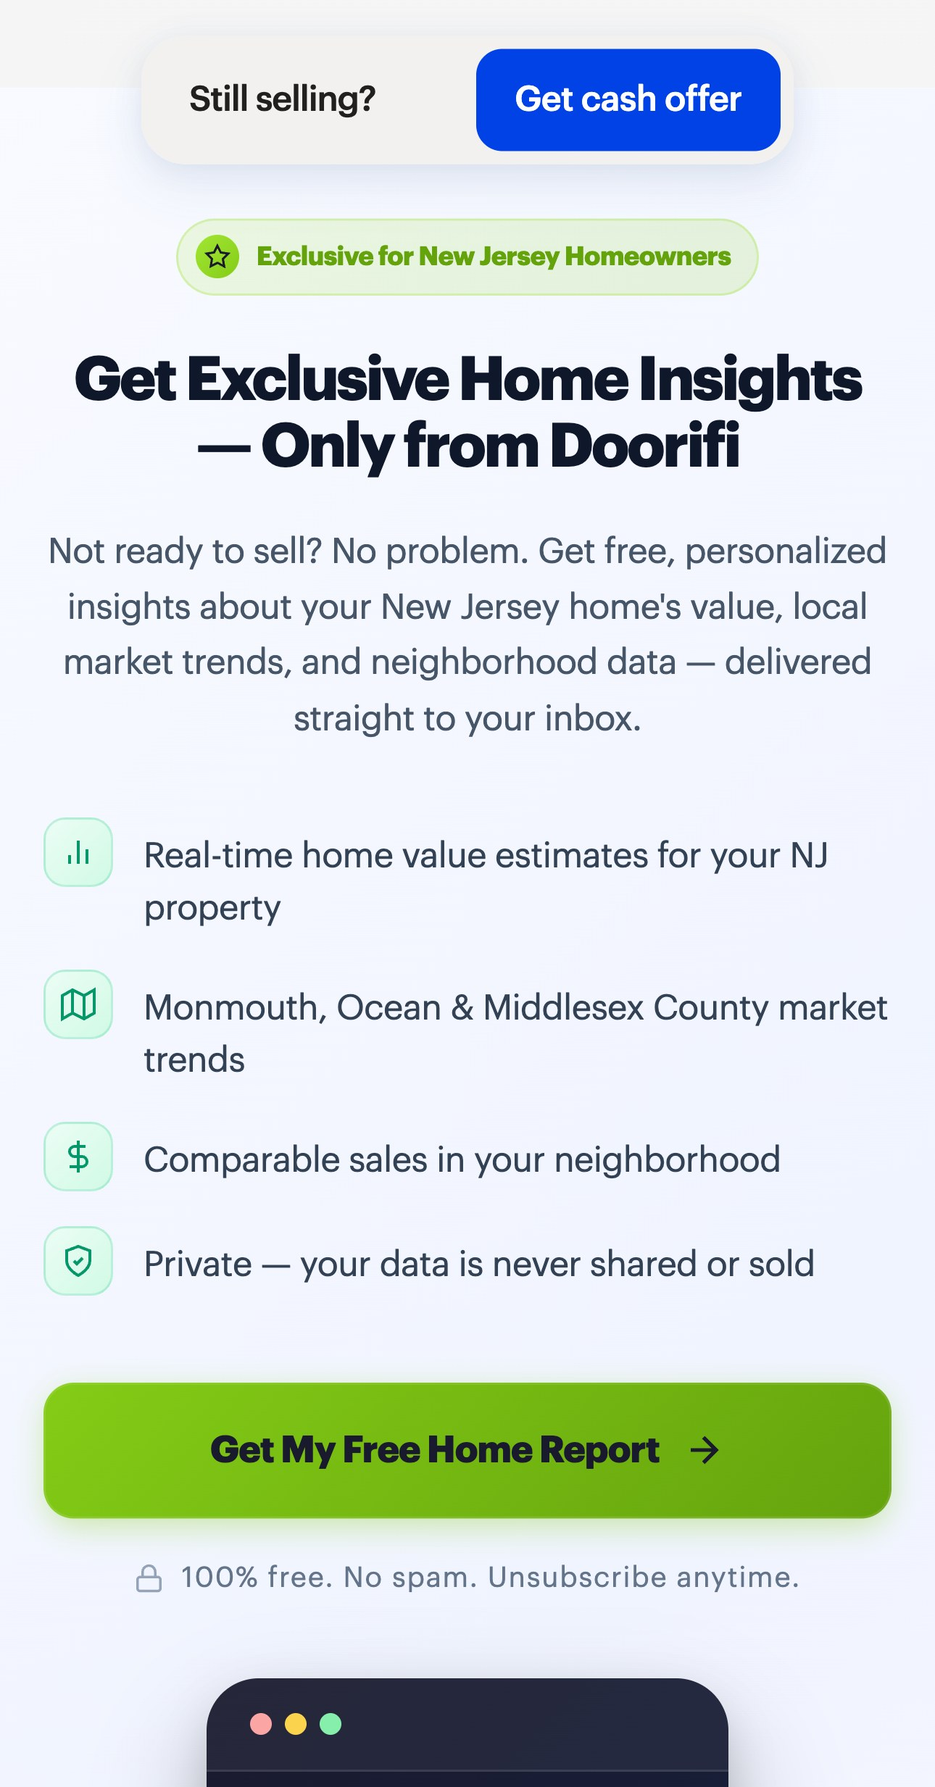
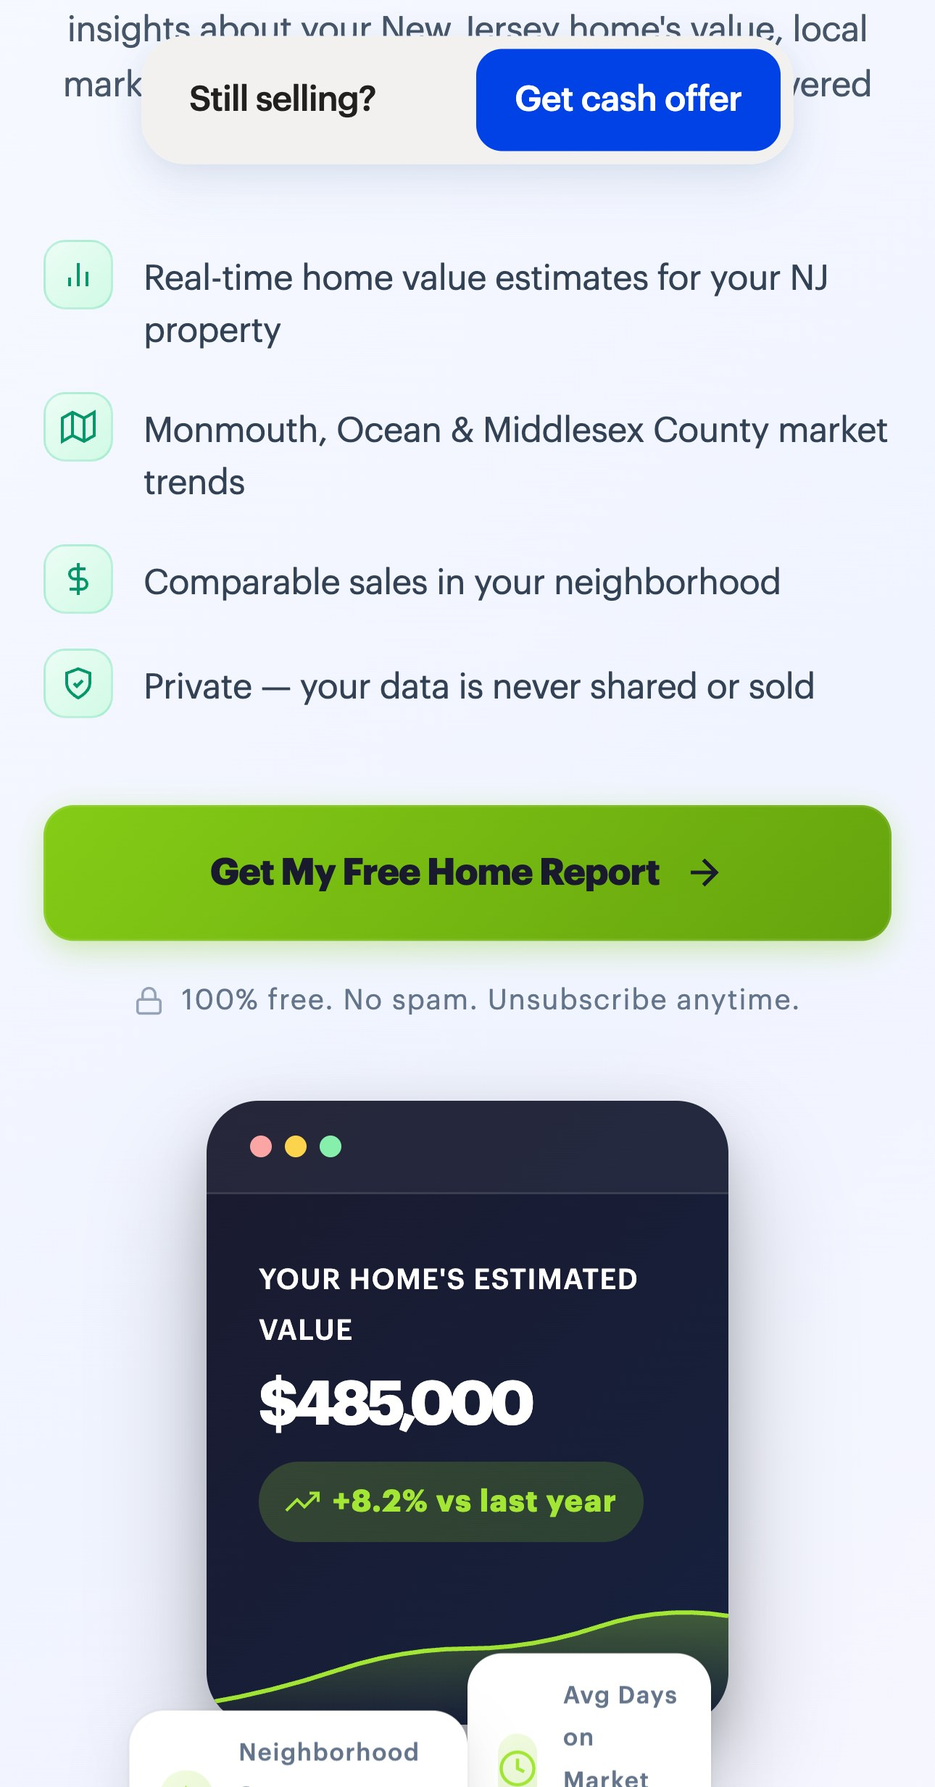
Self-review pass: grid mirrors the price table with correct slide links, one-change rule restored on slide 03, severity badges and prices reconciled, unverifiable claim softened

diff --git a/index.html b/index.html
@@ -1274,18 +1274,18 @@ a.irow:hover b{text-decoration:underline}
 
 <section class="slide">
   <img class="silk sm" src="img/silk.png" alt="">
-  <div class="shead"><h2>First wave — in this order<small>Direct effect on lead volume. Five of them are explained slide by slide below.</small></h2></div>
+  <div class="shead"><h2>First wave — in this order<small>Direct effect on lead volume. Every item but the last is explained slide by slide below, on your own screens.</small></h2></div>
   <div class="crit-grid">
-    <a class="ccard" href="#p01"><div class="top"><span class="n">01</span><span class="go">→</span></div><b>Nothing to act on in the first mobile screen</b><div class="now">The address field sits at 1,094 px — the fold is at 822 px.</div><div class="do">Rebuild the mobile hero so the form is on the first screen.</div></a>
-    <a class="ccard" href="#p02"><div class="top"><span class="n">02</span><span class="go">→</span></div><b>The floating CTA covers the form</b><div class="now">Fixed, z-index 90, 300×59 px — it sits over the funnel card.</div><div class="do">Move it to a bottom bar and hide it while the form is in view.</div></a>
-    <a class="ccard" href="#p03"><div class="top"><span class="n">03</span><span class="go">→</span></div><b>“Get My Free Home Report” leads nowhere</b><div class="now">&lt;a href="#"&gt; with no handler; two JS errors on load.</div><div class="do">Wire the button to an email capture and fix the script.</div></a>
-    <a class="ccard" href="#p04"><div class="top"><span class="n">04</span><span class="go">→</span></div><b>The first field is typed by hand</b><div class="now">autocomplete="off", no address suggestions, no validation.</div><div class="do">Google Places autocomplete on the address field.</div></a>
-    <a class="ccard" href="#p05"><div class="top"><span class="n">05</span><span class="go">→</span></div><b>Nothing measures the traffic you buy</b><div class="now">No Meta Pixel, no Google Ads tag, no GTM, no step events.</div><div class="do">GTM container, Meta Pixel, Ads conversion tag, funnel events.</div></a>
-    <a class="ccard" href="#p08"><div class="top"><span class="n">06</span><span class="go">→</span></div><b>The page weighs 17.8 MB</b><div class="now">Four autoplaying 1080p videos ≈ 11 MB; hero image upscaled 512 → 1,797 px.</div><div class="do">Compress the video, fix the hero image, defer what is offscreen.</div></a>
-    <a class="ccard" href="#p06"><div class="top"><span class="n">07</span><span class="go">→</span></div><b>iOS zooms on every field</b><div class="now">Inputs compute to 15 px — Safari zooms below 16 px.</div><div class="do">16 px on form inputs, autocomplete attributes on all three.</div></a>
-    <a class="ccard" href="#p07"><div class="top"><span class="n">08</span><span class="go">→</span></div><b>A 4.9★ nobody can check</b><div class="now">The rating links nowhere; zero links to a Google profile on the page.</div><div class="do">Live Google reviews widget + review schema.</div></a>
-    <a class="ccard" href="#p06"><div class="top"><span class="n">09</span><span class="go">→</span></div><b>Five steps with no sense of progress</b><div class="now">No step counter and no progress bar anywhere in the funnel.</div><div class="do">A progress indicator across all five steps.</div></a>
-    <a class="ccard" href="#p07"><div class="top"><span class="n">10</span><span class="go">→</span></div><b>The numbers contradict each other</b><div class="now">The page carries both “2,000+” and “2,500+ NJ homeowners”.</div><div class="do">One number everywhere, with the licence and HQ on the homepage.</div></a>
+    <a class="ccard" href="#p01"><div class="top"><span class="n">01</span><span class="go">Slide 01 →</span></div><b>Mobile hero rebuild — the form above the fold</b><div class="now">The address field sits at 1,094 px; the fold is at 822 px.</div><div class="do">Drop the decorative mockup so the form lands on the first screen.</div></a>
+    <a class="ccard" href="#p03"><div class="top"><span class="n">02</span><span class="go">Slide 03 →</span></div><b>Fix the dead “Get My Free Home Report” CTA</b><div class="now">&lt;a href="#"&gt; with no handler; two JS errors on every load.</div><div class="do">Wire the button to an email capture and fix the script.</div></a>
+    <a class="ccard" href="#p04"><div class="top"><span class="n">03</span><span class="go">Slide 04 →</span></div><b>Google Places address autocomplete</b><div class="now">autocomplete="off", no suggestions, nothing validated.</div><div class="do">Add Places autocomplete and remove autocomplete="off".</div></a>
+    <a class="ccard" href="#p05"><div class="top"><span class="n">04</span><span class="go">Slide 05 →</span></div><b>Meta Pixel + lead and funnel-step events</b><div class="now">No fbevents, no fbq; the dataLayer holds only gtm.dom and gtm.load.</div><div class="do">Install the pixel and fire an event on each of the five steps.</div></a>
+    <a class="ccard" href="#p05"><div class="top"><span class="n">05</span><span class="go">Slide 05 →</span></div><b>Google Ads conversion tag + GTM container</b><div class="now">No AW- tag, no googleadservices request, no tag manager.</div><div class="do">Install GTM first, then the conversion tag on top of it.</div></a>
+    <a class="ccard" href="#p08"><div class="top"><span class="n">06</span><span class="go">Slide 08 →</span></div><b>Hero image — resolution, srcset, WebP</b><div class="now">A 512×512 source stretched across 390×1,797 px, no srcset.</div><div class="do">Serve the right size from Shopify’s CDN with fetchpriority.</div></a>
+    <a class="ccard" href="#p02"><div class="top"><span class="n">07</span><span class="go">Slide 02 →</span></div><b>Move the floating CTA to a bottom bar</b><div class="now">Fixed, z-index 90 — it renders above the lead form’s own card.</div><div class="do">Anchor it at the bottom and hide it while the form is in view.</div></a>
+    <a class="ccard" href="#p06"><div class="top"><span class="n">08</span><span class="go">Slide 06 →</span></div><b>Progress indicator across the five steps</b><div class="now">No step counter and no progress bar at any point in the funnel.</div><div class="do">One line that says how far along the seller is.</div></a>
+    <a class="ccard" href="#p07"><div class="top"><span class="n">09</span><span class="go">Slide 07 →</span></div><b>Reconcile the trust numbers + link the reviews</b><div class="now">The 4.9★ links nowhere; zero links to a Google profile on the page.</div><div class="do">Link the real profile and settle on one homeowner number.</div></a>
+    <div class="ccard"><div class="top"><span class="n">10</span><span class="go">2 h · $80</span></div><b>Fix the iOS zoom + autocomplete attributes</b><div class="now">Inputs compute to 15 px, so Safari zooms on every field focus.</div><div class="do">16 px on inputs, autocomplete on name, email and phone.</div></div>
   </div>
 </section>
 
@@ -1326,7 +1326,7 @@ a.irow:hover b{text-decoration:underline}
     <div class="txt t1"><div class="lbl"><span class="pill">Today</span><svg class="conn" viewBox="0 0 54 12"><path d="M0 6h50M45 1.5 50 6l-5 4.5" fill="none" stroke="#6d6d6d" stroke-width="1.5"/></svg></div><p>The whole “Get Exclusive Home Insights” block is built for the majority who are researching, not selling today: four benefits, a privacy line, a strong green button.</p><p>That button is <b>&lt;a href="#"&gt;</b> with no handler bound. We clicked it: the URL becomes doorifi.com/#, nothing opens, and the visitor is thrown back to the top of the page. The console throws <b>“Cannot read properties of null (reading 'addEventListener')” twice</b> on load — the script that should bind it never finds its target.</p></div>
     <div class="v1"><div><div class="phone"><div class="screen"><div class="island"></div><div class="sbar"><span>9:41</span><svg viewBox="0 0 24 11"><rect x=".5" y=".5" width="20" height="10" rx="3" fill="none" stroke="#111"/><rect x="2" y="2" width="16" height="7" rx="1.5" fill="#111"/><rect x="21.5" y="3.5" width="1.8" height="4" rx=".9" fill="#111"/></svg></div><div class="view"><img class="shot" src="img/now-report-m.jpg" alt=""></div><div class="url"><span>doorifi.com</span></div></div></div><div class="cap">The button today — it leads nowhere</div></div></div>
     <div class="txt t2"><div class="lbl"><span class="pill">We propose</span><svg class="conn" viewBox="0 0 54 12"><path d="M0 6h50M45 1.5 50 6l-5 4.5" fill="none" stroke="#6d6d6d" stroke-width="1.5"/></svg></div><p>Fix the script and let the button do what it promises: open a short capture panel, deliver the report by email, and write the contact into HubSpot, which is already installed.</p><p>On the right — the same section, with the panel the button should open.</p></div>
-    <div class="v2"><div><div class="phone"><div class="screen"><div class="island"></div><div class="sbar"><span>9:41</span><svg viewBox="0 0 24 11"><rect x=".5" y=".5" width="20" height="10" rx="3" fill="none" stroke="#111"/><rect x="2" y="2" width="16" height="7" rx="1.5" fill="#111"/><rect x="21.5" y="3.5" width="1.8" height="4" rx=".9" fill="#111"/></svg></div><div class="view"><img class="shot" src="img/fix-report-nopill-m.jpg" alt=""><div class="dov dov-sheet"><h4>Get your free home report</h4><p>Where should we send it?</p><div class="dov-inp">Enter your email address</div><div class="dov-btn">Send my report</div><p class="dov-fine">100% free. No spam. Unsubscribe anytime.</p></div></div><div class="url"><span>doorifi.com</span></div></div></div><div class="cap">The same section with a working capture</div></div></div>
+    <div class="v2"><div><div class="phone"><div class="screen"><div class="island"></div><div class="sbar"><span>9:41</span><svg viewBox="0 0 24 11"><rect x=".5" y=".5" width="20" height="10" rx="3" fill="none" stroke="#111"/><rect x="2" y="2" width="16" height="7" rx="1.5" fill="#111"/><rect x="21.5" y="3.5" width="1.8" height="4" rx=".9" fill="#111"/></svg></div><div class="view"><img class="shot" src="img/now-report-m.jpg" alt=""><div class="dov dov-sheet" style="top:auto"><h4>Get your free home report</h4><p>Where should we send it?</p><div class="dov-inp">Enter your email address</div><div class="dov-btn">Send my report</div><p class="dov-fine">100% free. No spam. Unsubscribe anytime.</p></div></div><div class="url"><span>doorifi.com</span></div></div></div><div class="cap">The same section, with the panel the button should open</div></div></div>
     <div class="cardcol">
       <div class="benefit-top"><span class="pill">Why it pays</span><span class="arrow"><svg width="14" height="16" viewBox="0 0 14 16"><path d="M7 1v13M1.5 8.5 7 14l5.5-5.5" fill="none" stroke="#444" stroke-width="1.6"/></svg></span></div>
       <div class="card"><p>This is the entire soft-conversion path for people who are months away from selling. Today it captures nothing and quietly disorients the visitors most interested in it.</p><div class="stats"><div><b>0 leads</b><span>from a block built to collect them</span></div><div><b>2 JS errors</b><span>on every page load</span></div></div></div>
@@ -1367,7 +1367,7 @@ a.irow:hover b{text-decoration:underline}
   <img class="silk sm" src="img/silk.png" alt="">
   <div class="shead"><span class="num">06</span><h2><span class="sev crit">Critical</span>Five steps, and nothing tells the seller where they are</h2></div>
   <div class="pbody">
-    <div class="txt t1"><div class="lbl"><span class="pill">Today</span><svg class="conn" viewBox="0 0 54 12"><path d="M0 6h50M45 1.5 50 6l-5 4.5" fill="none" stroke="#6d6d6d" stroke-width="1.5"/></svg></div><p>The funnel is address → property type → bedrooms → bathrooms → basement → contact details. We walked all five steps: there is <b>no step counter and no progress bar</b> at any point.</p><p>Every step looks identical to the one before it, so the seller has no idea whether the next tap is the last one or the fifth of ten — the classic reason people abandon a multi-step form.</p></div>
+    <div class="txt t1"><div class="lbl"><span class="pill">Today</span><svg class="conn" viewBox="0 0 54 12"><path d="M0 6h50M45 1.5 50 6l-5 4.5" fill="none" stroke="#6d6d6d" stroke-width="1.5"/></svg></div><p>The funnel runs address and property type → bedrooms → bathrooms → basement → contact details. We walked all five steps: there is <b>no step counter and no progress bar</b> at any point.</p><p>Every step looks identical to the one before it, so the seller has no idea whether the next tap is the last one or the fifth of ten — the classic reason people abandon a multi-step form.</p></div>
     <div class="v1"><div><div class="phone"><div class="screen"><div class="island"></div><div class="sbar"><span>9:41</span><svg viewBox="0 0 24 11"><rect x=".5" y=".5" width="20" height="10" rx="3" fill="none" stroke="#111"/><rect x="2" y="2" width="16" height="7" rx="1.5" fill="#111"/><rect x="21.5" y="3.5" width="1.8" height="4" rx=".9" fill="#111"/></svg></div><div class="view"><img class="shot" src="img/now-contactstep-m.jpg" alt=""></div><div class="url"><span>doorifi.com</span></div></div></div><div class="cap">Step 5 today — nothing marks it as the last one</div></div></div>
     <div class="txt t2"><div class="lbl"><span class="pill">We propose</span><svg class="conn" viewBox="0 0 54 12"><path d="M0 6h50M45 1.5 50 6l-5 4.5" fill="none" stroke="#6d6d6d" stroke-width="1.5"/></svg></div><p>Add one progress indicator across all five steps. Same card, same fields, same order — one line that says how far along they are.</p><p>On the right — the real final step of your funnel with that line added.</p></div>
     <div class="v2"><div><div class="phone"><div class="screen"><div class="island"></div><div class="sbar"><span>9:41</span><svg viewBox="0 0 24 11"><rect x=".5" y=".5" width="20" height="10" rx="3" fill="none" stroke="#111"/><rect x="2" y="2" width="16" height="7" rx="1.5" fill="#111"/><rect x="21.5" y="3.5" width="1.8" height="4" rx=".9" fill="#111"/></svg></div><div class="view"><img class="shot" src="img/now-contactstep-m.jpg" alt=""><div class="dov dov-prog" style="top:11.5%"><div class="rail"><i></i></div><div class="lb"><span>Step 5 of 5</span><span>Almost done</span></div></div></div><div class="url"><span>doorifi.com</span></div></div></div><div class="cap">The same step, with progress shown</div></div></div>
@@ -1380,22 +1380,22 @@ a.irow:hover b{text-decoration:underline}
 </section>
 <section class="slide" id="p07">
   <img class="silk sm" src="img/silk.png" alt="">
-  <div class="shead"><span class="num">07</span><h2><span class="sev imp">Medium priority</span>A 4.9★ rating that nobody can check</h2></div>
+  <div class="shead"><span class="num">07</span><h2><span class="sev crit">Critical</span>A 4.9★ rating that nobody can check</h2></div>
   <div class="pbody">
-    <div class="txt t1"><div class="lbl"><span class="pill">Today</span><svg class="conn" viewBox="0 0 54 12"><path d="M0 6h50M45 1.5 50 6l-5 4.5" fill="none" stroke="#6d6d6d" stroke-width="1.5"/></svg></div><p>The stats band claims <b>2,500+ NJ homeowners served</b> and a <b>4.9★ Google rating</b>. The rating links nowhere — there are <b>zero links to a Google profile</b> on the page — and /pages/reviews carries no Google, BBB or Trustpilot source either.</p><p>The markup also still contains an older “Trusted by 2,000+ NJ homeowners” line, so the page quotes two different numbers for the same thing.</p><p class="fine-note">Your NJ Real Estate Licence #0453810 and the Manalapan HQ do exist — on /pages/contact, where almost nobody looks.</p></div>
+    <div class="txt t1"><div class="lbl"><span class="pill">Today</span><svg class="conn" viewBox="0 0 54 12"><path d="M0 6h50M45 1.5 50 6l-5 4.5" fill="none" stroke="#6d6d6d" stroke-width="1.5"/></svg></div><p>The stats band claims <b>2,500+ NJ homeowners served</b> and a <b>4.9★ Google rating</b>. The rating links nowhere — there are <b>zero links to a Google profile</b> on the page — and /pages/reviews carries no Google, BBB or Trustpilot source either.</p><p>The band carries three headline claims — <b>2,500+ homeowners, $50M+ in purchases, 4.9★</b> — and not one of them is sourced. The page markup also still holds an older “Trusted by 2,000+ NJ homeowners” line, so the two homeowner figures should be settled on one.</p><p class="fine-note">Your NJ Real Estate Licence #0453810 and the Manalapan HQ do exist — on /pages/contact, where almost nobody looks.</p></div>
     <div class="v1"><div><div class="phone"><div class="screen"><div class="island"></div><div class="sbar"><span>9:41</span><svg viewBox="0 0 24 11"><rect x=".5" y=".5" width="20" height="10" rx="3" fill="none" stroke="#111"/><rect x="2" y="2" width="16" height="7" rx="1.5" fill="#111"/><rect x="21.5" y="3.5" width="1.8" height="4" rx=".9" fill="#111"/></svg></div><div class="view"><img class="shot" src="img/now-trust-m.jpg" alt=""></div><div class="url"><span>doorifi.com</span></div></div></div><div class="cap">A claim with nothing behind it</div></div></div>
-    <div class="txt t2"><div class="lbl"><span class="pill">We propose</span><svg class="conn" viewBox="0 0 54 12"><path d="M0 6h50M45 1.5 50 6l-5 4.5" fill="none" stroke="#6d6d6d" stroke-width="1.5"/></svg></div><p>Link the rating to the real Google Business Profile and embed the live reviews, then add AggregateRating schema so the stars can show in search.</p><p>On the right — the same band, with the rating made verifiable in one tap.</p></div>
+    <div class="txt t2"><div class="lbl"><span class="pill">We propose</span><svg class="conn" viewBox="0 0 54 12"><path d="M0 6h50M45 1.5 50 6l-5 4.5" fill="none" stroke="#6d6d6d" stroke-width="1.5"/></svg></div><p>First wave: link the rating to the real Google Business Profile and settle on one homeowner number. Second wave ($160): embed the live reviews widget and add AggregateRating schema so the stars can show in search.</p><p>On the right — the same band, with the rating made verifiable in one tap.</p></div>
     <div class="v2"><div><div class="phone"><div class="screen"><div class="island"></div><div class="sbar"><span>9:41</span><svg viewBox="0 0 24 11"><rect x=".5" y=".5" width="20" height="10" rx="3" fill="none" stroke="#111"/><rect x="2" y="2" width="16" height="7" rx="1.5" fill="#111"/><rect x="21.5" y="3.5" width="1.8" height="4" rx=".9" fill="#111"/></svg></div><div class="view"><img class="shot" src="img/now-trust-m.jpg" alt=""><div class="dov dov-chip" style="top:29%"><span><i></i>Read all 4.9★ reviews on Google</span></div></div><div class="url"><span>doorifi.com</span></div></div></div><div class="cap">The same band — the rating now leads to the profile</div></div></div>
     <div class="cardcol">
       <div class="benefit-top"><span class="pill">Why it pays</span><span class="arrow"><svg width="14" height="16" viewBox="0 0 14 16"><path d="M7 1v13M1.5 8.5 7 14l5.5-5.5" fill="none" stroke="#444" stroke-width="1.6"/></svg></span></div>
-      <div class="card"><p>The reviews evidently already exist. Making them checkable is the cheapest trust work available — and it is what a sceptical seller looks for before calling a cash buyer.</p><div class="stats"><div><b>0 links</b><span>from the 4.9★ claim to anything</span></div><div><b>2 numbers</b><span>2,000+ and 2,500+ on the same page</span></div></div></div>
-      <div class="ptag"><span>Price</span><b>$160</b><em>4 h &#183; $40/h</em></div>
+      <div class="card"><p>The reviews evidently already exist. Making them checkable is the cheapest trust work available — and it is what a sceptical seller looks for before calling a cash buyer.</p><div class="stats"><div><b>0 links</b><span>from the 4.9★ claim to any profile</span></div><div><b>3 claims</b><span>on the band, none of them sourced</span></div></div></div>
+      <div class="ptag"><span>Price</span><b>$120</b><em>3 h &#183; $40/h — widget and schema in the second wave</em></div>
     </div>
   </div>
 </section>
 <section class="slide" id="p08">
   <img class="silk sm" src="img/silk.png" alt="">
-  <div class="shead"><span class="num">08</span><h2><span class="sev imp">Medium priority</span>The landing page weighs 17.8 MB</h2></div>
+  <div class="shead"><span class="num">08</span><h2><span class="sev crit">Critical</span>The landing page weighs 17.8 MB</h2></div>
   <div class="tk">
     <div><b>17.8 MB</b><span>decoded on first load</span></div>
     <div><b>231</b><span>requests</span></div>
@@ -1408,7 +1408,7 @@ a.irow:hover b{text-decoration:underline}
   <p class="lead">These are lab figures from a data-centre connection, so treat them as a floor — on a Monmouth County commute the same page is materially worse. The hosting is not the problem: the server answers in well under half a second. The weight is entirely in assets you control.</p>
   <div class="two" style="margin-top:8px">
     <div class="card"><p><b>What we would do</b></p><div class="stats"><div><b>Video</b><span>compress to a web bitrate, add posters, load offscreen clips only when they scroll into view</span></div><div><b>Hero image</b><span>correct resolution, srcset, WebP, fetchpriority — served from Shopify’s CDN</span></div></div></div>
-    <div class="ptag"><span>Price</span><b>$400</b><em>10 h &#183; $40/h</em></div>
+    <div class="ptag"><span>Price</span><b>$400</b><em>hero image 4 h (first wave) + video 6 h (second)</em></div>
   </div>
 </section>
 <section class="slide divider" id="medium">
@@ -1422,7 +1422,7 @@ a.irow:hover b{text-decoration:underline}
   <div class="shead"><h2>Friction and trust<small>Worth doing straight after the first wave — each one compounds the gains above.</small></h2></div>
   <div class="imp-grid">
     <div class="irow"><i>01</i><div><b>There is no page that explains how this works</b><span>The nav link “How it works” resolves to /pages/home-insights, whose title says “How Doorifi works — simple steps” but whose H1 is the hero headline and whose content is a home-valuation pitch. Nowhere does the site answer: what happens after I submit, who visits, how is the offer calculated, am I obligated, how do I get paid. In cash home-buying, that opacity is the objection.</span><em>6 h · $240</em></div></div>
-    <div class="irow"><i>02</i><div><b>Four autoplaying 1080p videos</b><span>About 11 MB of the page, one without a poster frame. Compress, add posters, and load the offscreen clips only when they scroll into view — no design change.</span><em>6 h · $240</em></div></div>
+    <div class="irow"><i>02</i><div><b>Four autoplaying 1080p videos</b><span>The 11 MB measured on slide 08. The hero image is the first-wave half of that work; the video is this half — compress, add posters, load offscreen clips on scroll. No design change.</span><em>6 h · $240</em></div></div>
     <div class="irow"><i>03</i><div><b>The header is not sticky, and holds no phone and no CTA</b><span>Measured position: static. On a 13,405 px page the navigation disappears after the first screen. The phone number (732) 740-3896 first appears at y = 5,823 px — 43% of the way down — on a page whose own copy invites a conversation.</span><em>5 h · $200</em></div></div>
     <div class="irow"><i>04</i><div><b>On desktop the Next button and the trust row are below the fold</b><span>The visitor has to scroll before the funnel shows an action or a reason to trust it.</span><em>4 h · $160</em></div></div>
     <div class="irow"><i>05</i><div><b>No live Google reviews and no review schema</b><span>The site ships WebSite, Organization and BreadcrumbList JSON-LD — but no AggregateRating and no LocalBusiness. With a 4.9 already claimed, valid review schema is a direct route to stars in search results on every local page.</span><em>4 h · $160</em></div></div>
